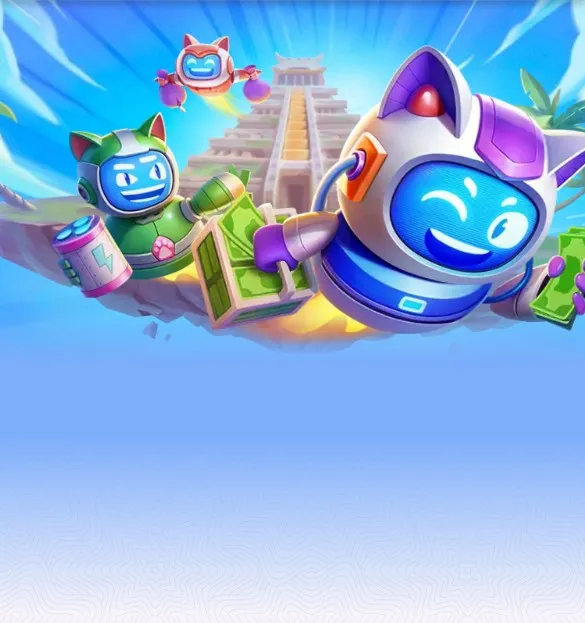
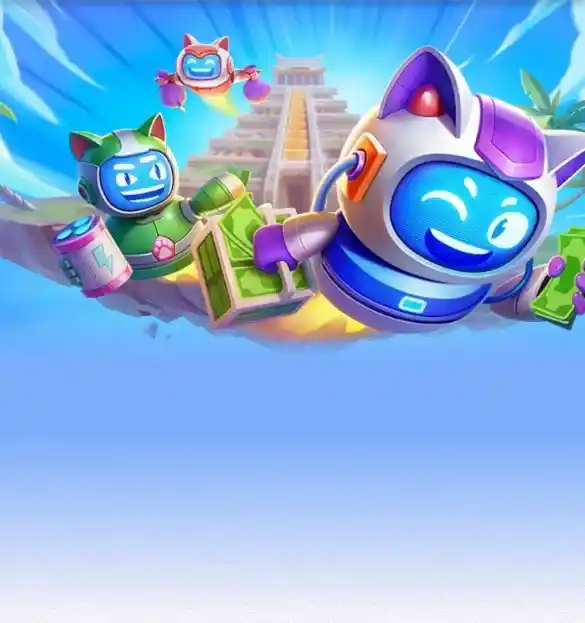
2

diff --git a/index.html b/index.html
@@ -85,19 +85,19 @@
         <ul class="sidebar__list">
           <li>
             <a href="go" rel="nofollow">
-              <span><img src="assets/images/m5.png" alt="fr"  loading="lazy"/></span>
+              <span><img src="assets/images/m5.webp" alt="fr"  loading="lazy"/></span>
               <span>Casino</span>
             </a>
           </li>
           <li>
             <a href="go" rel="nofollow">
-              <span><img src="assets/images/m6.png" alt="fr"  loading="lazy"/></span>
+              <span><img src="assets/images/m6.webp" alt="fr"  loading="lazy"/></span>
               <span>Live Casino</span>
             </a>
           </li>
           <li>
             <a href="go" rel="nofollow">
-              <span><img src="assets/images/m7.png" alt="fr"  loading="lazy"/></span>
+              <span><img src="assets/images/m7.webp" alt="fr"  loading="lazy"/></span>
               <span>Jackpots</span>
             </a>
           </li>
@@ -196,61 +196,61 @@
                 </li>
                 <li>
                   <a href="go" rel="nofollow">
-                    <span><img src="assets/images/t2.png" alt="banner1920" loading="lazy"></span>                          
+                    <span><img src="assets/images/t2.webp" alt="banner1920" loading="lazy"></span>                          
                     <span>Top</span>
                   </a>
                 </li>
                 <li>
                   <a href="go" rel="nofollow">
-                    <span><img src="assets/images/t3.png" alt="banner1920" loading="lazy"></span>                     
+                    <span><img src="assets/images/t3.webp" alt="banner1920" loading="lazy"></span>                     
                     <span>Nouveau</span>
                   </a>
                 </li>
                 <li>
                   <a href="go" rel="nofollow">
-                    <span><img src="assets/images/t4.png" alt="banner1920" loading="lazy"></span>                                     
+                    <span><img src="assets/images/t4.webp" alt="banner1920" loading="lazy"></span>                                     
                     <span>Populaire</span>
                   </a>
                 </li>
                 <li>
                   <a href="go" rel="nofollow">
-                    <span><img src="assets/images/t5.png" alt="banner1920" loading="lazy"></span>                       
+                    <span><img src="assets/images/t5.webp" alt="banner1920" loading="lazy"></span>                       
                     <span>Exclusif</span>
                   </a>
                 </li>
                 <li>
                   <a href="go" rel="nofollow">
-                    <span><img src="assets/images/t6.png" alt="banner1920" loading="lazy"></span>              
+                    <span><img src="assets/images/t6.webp" alt="banner1920" loading="lazy"></span>              
                     <span>Meilleur live casino</span>
                   </a>
                 </li>
                 <li>
                   <a href="go" rel="nofollow">
-                    <span><img src="assets/images/t7.png" alt="banner1920" loading="lazy"></span>                          
+                    <span><img src="assets/images/t7.webp" alt="banner1920" loading="lazy"></span>                          
                     <span>Roulette</span>
                   </a>
                 </li>
                 <li>
                   <a href="go" rel="nofollow">
-                    <span><img src="assets/images/t8.png" alt="banner1920" loading="lazy"></span>                  
+                    <span><img src="assets/images/t8.webp" alt="banner1920" loading="lazy"></span>                  
                     <span>Game Shows</span>
                   </a>
                 </li>
                 <li>
                   <a href="go" rel="nofollow">
-                    <span><img src="assets/images/t9.png" alt="banner1920" loading="lazy"></span>                  
+                    <span><img src="assets/images/t9.webp" alt="banner1920" loading="lazy"></span>                  
                     <span>Blackjack</span>
                   </a>
                 </li>
                 <li>
                   <a href="go" rel="nofollow">
-                    <span><img src="assets/images/t10.png" alt="banner1920" loading="lazy"></span>               
+                    <span><img src="assets/images/t10.webp" alt="banner1920" loading="lazy"></span>               
                     <span>Jackpots Hot</span>
                   </a>
                 </li>
                 <li>
                   <a href="go" rel="nofollow">
-                    <span><img src="assets/images/t11.png" alt="banner1920" loading="lazy"></span>               
+                    <span><img src="assets/images/t11.webp" alt="banner1920" loading="lazy"></span>               
                     <span>Machines à sous</span>
                   </a>
                 </li>
@@ -691,13 +691,13 @@
           </div>
           <div class="footer__pay">
             <a href="go" rel="nofollow">
-              <img src="assets/images/visa.png" alt="visa" loading="lazy">
+              <img src="assets/images/visa.webp" alt="visa" loading="lazy">
             </a>
             <a href="go" rel="nofollow">
-              <img src="assets/images/mastercard.png" alt="mastercard" loading="lazy">
+              <img src="assets/images/mastercard.webp" alt="mastercard" loading="lazy">
             </a>
             <a href="go" rel="nofollow">
-              <img src="assets/images/interac.png" alt="interac" loading="lazy">
+              <img src="assets/images/interac.webp" alt="interac" loading="lazy">
             </a>
             <a href="go" rel="nofollow">
               <span> Plus </span>
@@ -705,7 +705,7 @@
             </a>
           </div>
           <div class="footer__media">
-            <img src="assets/images/18+.png" alt="18+" loading="lazy">
+            <img src="assets/images/18+.webp" alt="18+" loading="lazy">
           </div>
           <div class="footer__copyright">
             <p>Gambling can be addictive. Play responsibly. Robocat.com only accepts customers over 18 years of age</p>
